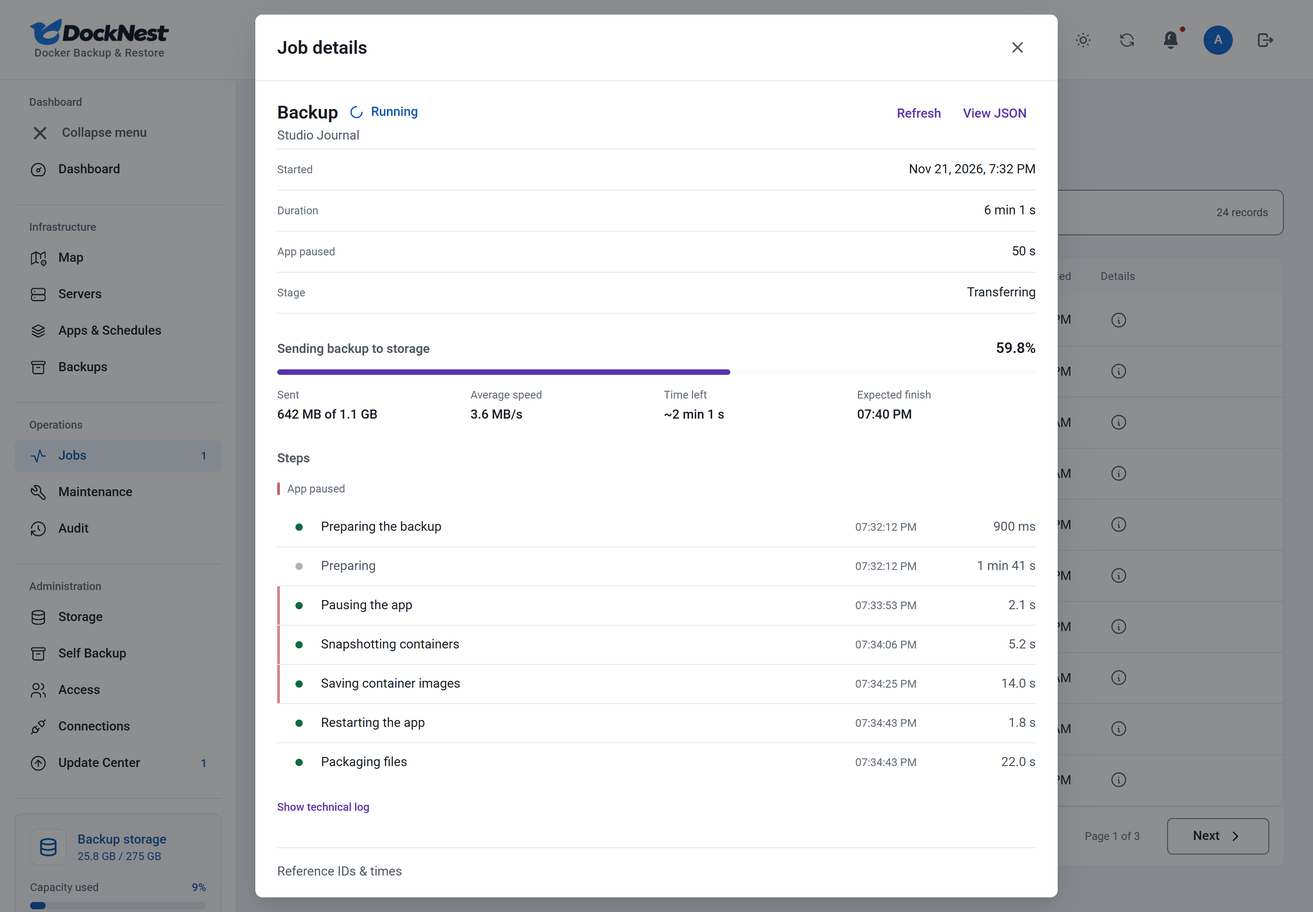
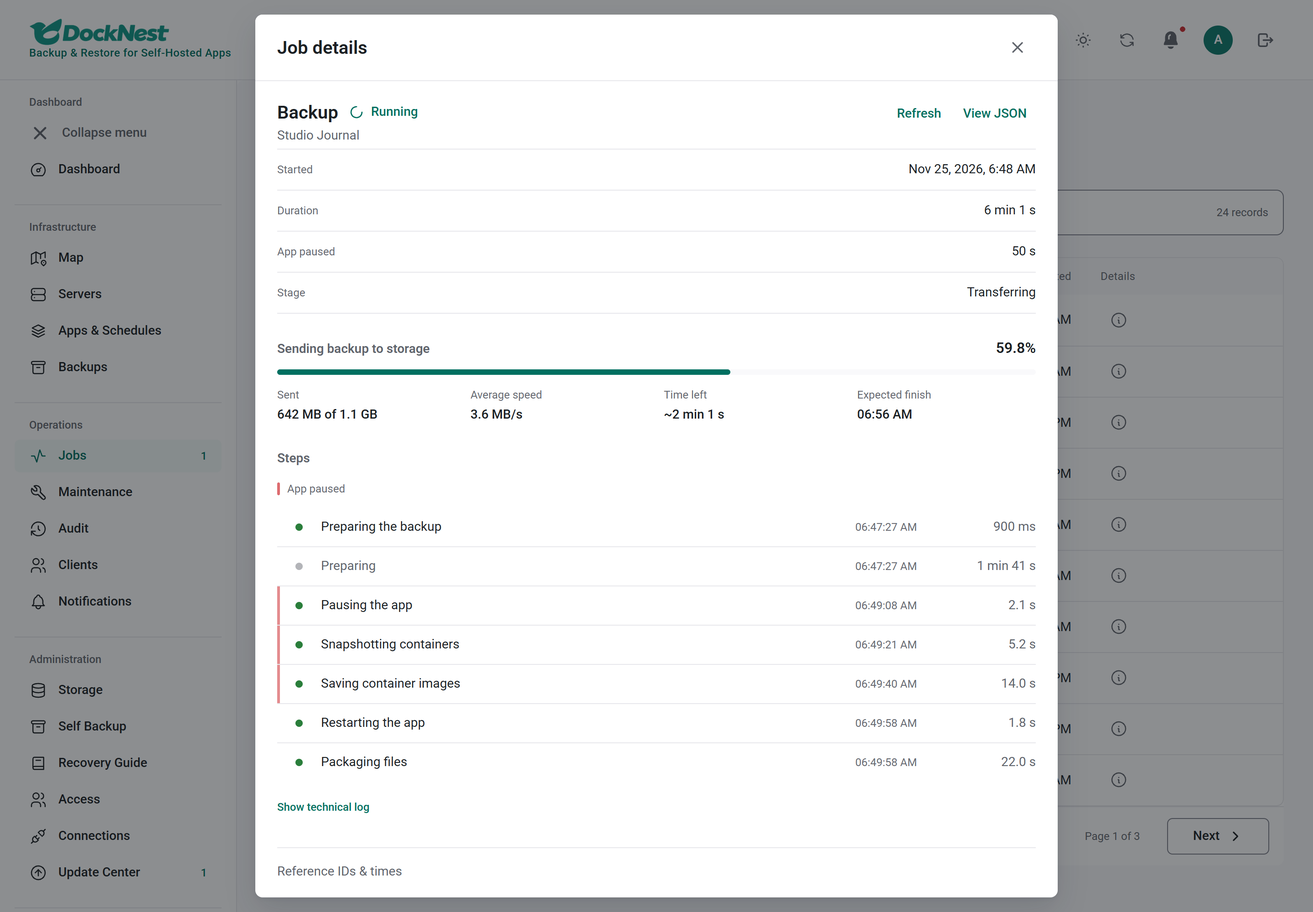
chore: prepare 3.0.0 (#300)
* chore: prepare 3.0.0 (version, changelog, release notes, README, screenshots)

* docs: regenerate the five 3.0.0 screenshots in Teal

diff --git a/scripts/readme-screenshots.js b/scripts/readme-screenshots.js
@@ -33,13 +33,14 @@ const selfBackup={active:null,lastAttempt:{status:'completed'},destination:{name
  latest:{finishedAt:time(5),size:3.4*1024**2,release:'3.0.0',checksum:'9f2c'.repeat(16),storage:{mode:'sftp',name:'Backup vault'}},
  settings:{enabled:true,schedule:'0 3 * * *',timezone:'UTC',hasPassphrase:true,nextRun:new Date(now+19*3600000).toISOString()}};
 const meta={version:'v2.4.0',publishedAt:iso,releaseUrl:'https://github.com/DahanItamar/DockNest/releases/latest',highlights:{security:false,features:2,improvements:4},highlightsVerified:true,compatibility:{minimumMet:true,updatesDatabase:'yes',fromSchema:5,toSchema:5},downtime:{seconds:240,basis:'last-run'},pauses:['Backups and restores'],notesMarkdown:'# Release notes\n\n## New features\n- Problem reports without personal data.\n- Clearer failure explanations.\n\n## Improvements\n- Faster job list.\n',notesSource:'verified'};
-async function open({width=1440,height=1000,scale=2,theme='light',signedIn=true}={}){
+async function open({width=1440,height=1000,scale=2,theme='light',signedIn=true,extra=null,pageState=state}={}){
  const context=await browser.newContext({viewport:{width,height},deviceScaleFactor:scale,reducedMotion:'reduce',colorScheme:theme});
  await context.addInitScript(t=>{try{localStorage.setItem('docknest-theme',t)}catch{}},theme);
  await context.route('**/api/**',route=>{
   const path=new URL(route.request().url()).pathname;
-  const json=path==='/api/auth/status'&&!signedIn?{authenticated:false,setupRequired:false,csrfToken:'',serverTime:now}:path==='/api/self-backup'?selfBackup:path==='/api/auth/status'?{authenticated:true,setupRequired:false,csrfToken:'demo-fixture',user:{id:'demo-admin',name:'Administrator',role:'admin'},serverTime:now,idleExpiresAt:now+1800000,absoluteExpiresAt:now+28800000}
-  :path==='/api/state'?{...state,update:{available:'v2.4.0'}}:path==='/api/storage-targets'?storageTargets:path==='/api/alerts'?alerts:path==='/api/updates'?updates:path==='/api/version'?{version:'2.3.0',schemaVersion:5}
+  const over=extra?extra(path):undefined;
+  const json=over!==undefined?over:path==='/api/auth/status'&&!signedIn?{authenticated:false,setupRequired:false,csrfToken:'',serverTime:now}:path==='/api/self-backup'?selfBackup:path==='/api/auth/status'?{authenticated:true,setupRequired:false,csrfToken:'demo-fixture',user:{id:'demo-admin',name:'Administrator',role:'admin'},serverTime:now,idleExpiresAt:now+1800000,absoluteExpiresAt:now+28800000}
+  :path==='/api/state'?{...pageState,update:{available:'v2.4.0'}}:path==='/api/storage-targets'?storageTargets:path==='/api/alerts'?alerts:path==='/api/updates'?updates:path==='/api/version'?{version:'2.3.0',schemaVersion:5}
   :path.startsWith('/api/updates/releases/')?meta:path==='/api/updates/history'?{items:[{id:'r1',version:'v2.3.0',at:time(200),outcome:'succeeded',source:'in-app'},{id:null,version:'v2.2.0',at:time(900),outcome:'succeeded',source:'cli'}],next:null}
   :path==='/api/updates/progress'?{active:false,phase:null,to:null,state:null,stale:false,updatedAt:null,events:[]}:path==='/api/updates/whats-new'?{show:false}:{};
   return route.fulfill({json});
@@ -84,5 +85,20 @@ try{
  // Sign-in page with a few typed characters (never a real password) so the dots show.
  ({context,page}=await open({signedIn:false}));await page.locator('input[name=password]').pressSequentially('0000000000',{delay:20});await page.waitForTimeout(600);await settle(page);await shot(page,'login.png');await context.close();
  ({context,page}=await open({width:402,height:874,scale:2}));await settle(page);await shot(page,'dashboard-mobile.png');await context.close();
+
+ // TrueNAS SCALE server on the Map and a Podman rootless app on Apps (1280x800, 1x, like the other 3.0.0 views).
+ const truenas={id:'demo-nas-1',name:'Storage NAS',note:'',host:'192.0.2.40',username:'admin',port:22,hostKey:'12'.repeat(32),status:'connected',capabilities:{nas:{kind:'truenas',version:'25.04.2'},helperRuntime:'container',stagingBase:'/mnt/tank/docknest',sshIdentity:'sudo',freeBytes:1.4e12,dockerVersion:'27.3.1',engines:[{engine:'docker',rootless:false,version:'27.3.1',cgroupDelegated:true}]}};
+ const nasChecks=[{id:'nas-version',status:'ok',message:'truenas 25.04.2'},{id:'identity',status:'ok',message:'Connected as admin with passwordless sudo.'},{id:'runtime',status:'ok',message:'The helper runtime image is loaded.'},{id:'staging',status:'ok',message:'/mnt/tank/docknest is on persistent storage.',freeBytes:1.4e12},{id:'docker',status:'ok',message:'Docker 27.3.1'}];
+ const nasSite={id:'demo-nas-site',name:'Photo Library',serverId:truenas.id,config:{containers:['photos','photos-db'],domains:[]}};
+ const nasState={...state,servers:[truenas],sites:[nasSite],policies:[{siteId:nasSite.id,enabled:true,schedule:'0 2 * * *',timezone:'UTC',retention:7}],backups:[],jobs:[]};
+ ({context,page}=await open({width:1280,height:800,scale:1,pageState:nasState,extra:p=>p==='/api/servers/'+truenas.id+'/nas'?{nas:truenas.capabilities.nas,identity:'sudo',helperRuntime:'container',stagingBase:truenas.capabilities.stagingBase,ready:true,checks:nasChecks}:undefined}));
+ await go(page,'Map');await page.getByRole('heading',{level:1,name:'Map'}).waitFor();
+ await page.locator('[data-node="server:'+truenas.id+'"]').click();await page.getByText('Helper runtime: Container (no Python on host)').waitFor();await settle(page);await shot(page,'nas-server.png');await context.close();
+ const rootless={engine:'podman',rootless:true,user:'svc',uid:1002};
+ const podSites=[{id:'demo-pod-1',name:'Demo Shop',serverId:servers[0].id,config:{containers:['shop-web'],domains:[]}},{id:'demo-pod-2',name:'Team Portal',serverId:servers[0].id,config:{containers:['portal-app'],runtime:rootless,domains:[]}}];
+ const podServer={...servers[0],capabilities:{...servers[0].capabilities,engines:[{engine:'docker',rootless:false,version:'28.0.1',cgroupDelegated:true},{...rootless,version:'5.2.1',cgroupDelegated:true}]}};
+ const podState={...state,servers:[podServer],sites:podSites,policies:podSites.map(s=>({siteId:s.id,enabled:true,schedule:'0 2 * * *',timezone:'UTC',retention:7})),backups:[],jobs:[]};
+ ({context,page}=await open({width:1280,height:800,scale:1,pageState:podState}));
+ await go(page,'Apps & Schedules');await page.locator('.site-card',{hasText:'Team Portal'}).getByText('Podman rootless, user svc').waitFor();await settle(page);await shot(page,'podman-app.png');await context.close();
  console.log('Documentation screenshots captured with synthetic data only.');
 }finally{await browser.close();}

diff --git a/CHANGELOG.md b/CHANGELOG.md
@@ -2,114 +2,54 @@
 
 All notable changes to DockNest are documented here. The format follows [Keep a Changelog](https://keepachangelog.com/en/1.1.0/), and DockNest uses [Semantic Versioning](https://semver.org/spec/v2.0.0.html). [docs/upgrading.md](docs/upgrading.md) describes what stays stable within a major version and the deprecation policy. Detailed notes for each release live in [docs/releases](docs/releases).
 
-## [Unreleased]
+## [3.0.0] - Unreleased
 
-Draft for 3.0.0, not released yet. Upgrading: [docs/upgrading.md](docs/upgrading.md#upgrading-to-300).
+Upgrading from 2.16.x: [docs/upgrading.md](docs/upgrading.md#upgrading-to-300). Backups of Podman and rootless apps use backup format 3, which 2.16 cannot restore.
 
-### Fixed
+### New
 
-- Cloud drives: the Google Drive, OneDrive and Dropbox sign-in link now appears, drives can connect over HTTPS, the connected account is shown masked, and a certificate problem is reported as such instead of "could not be reached".
-- OneDrive: the list of drives after sign-in is no longer empty, so OneDrive can be connected from the dashboard. After a revoked sign-in, the first test now says OneDrive needs you to sign in again.
-- Cloud drives: the sign-in address from Microsoft and Dropbox (`localhost:53682`) is accepted, personal Microsoft account codes are accepted, Google Drive sign-in asks only for access to files DockNest creates, and the account name shows after Reconnect.
-- Cloud drives: the account name now shows on every drive (and fills in for existing ones after a Test). Reconnecting a Google Drive with a different Google app asks you to confirm first, because earlier backups would no longer be visible; a backup that Google no longer shows is reported as not visible, not as damaged.
-- Google Drive: the root folder is remembered, so tests and backups make fewer calls. A slow test no longer fails the page: it shows "Still checking" and finishes in the background. When Google limits the shared sign-in app, DockNest says so and recommends your own app ID.
+- Recovery time: how long each app took to come back in its newest passed restore test, on the dashboard, the Map and Restore tests. Existing tests already count.
+- Client reports: a Clients page; group apps per client and make a monthly PDF of backups, restore tests, recovery time, certificate, hardening grade and domain checks, downloaded or emailed to up to 3 people. Never shows server addresses, logins or paths. See [client reports](docs/client-reports.md).
+- Cloud drives as backup storage: Google Drive, OneDrive, Dropbox, WebDAV, SMB shares and a mounted local folder, with Reconnect and an alert when a sign-in expires. See [cloud drives](docs/cloud-drives.md).
+- NAS servers: TrueNAS SCALE, as root or a non-root SSH user with passwordless sudo, with a sealed helper container when the NAS has no Python. Unraid and Synology are early access under Settings (off by default); until then they connect as normal Linux servers with Docker. See [NAS servers](docs/nas-servers.md).
+- Podman and rootless Docker: servers list their engines, Discover groups apps by engine, and such apps can be backed up, restored and restore-tested in the same kind of engine. Not yet: systemd-managed (quadlet) apps, native databases, several containers in one restore, incremental backups and moves between engines.
+- Notification center: a bell and a Notifications page with folders, filters, Archive and toasts for new problems.
+- New look: slate neutrals and a teal accent, with an accent colour choice (Teal, Blue, Indigo, Orange, Pink) under Settings > Appearance. Apps (was Sites) and Self Backup are the new names; nothing to change.
+- Recovery Guide: numbered steps and exact commands to bring every app back on a new server, as a PDF (Hebrew included), with expected recovery time per app. A login-free copy is saved next to the recovery kit after every Self Backup.
+- Recovery kit: checked after every Self Backup and on demand (alert on failure); optional split so K of N trusted people can open it together.
+- Keys safe: finds app encryption keys (Laravel, n8n, Rails, authentik, Paperless-ngx, Outline, Gitea, Nextcloud, Vaultwarden and others) and checks they are inside the last backup. Key values never leave the server.
+- Backup coverage and linked apps: every container and volume on a server and whether an app backs it up, plus which apps depend on each other.
+- Domain checks: follow each domain through DNS, proxy (nginx, Nginx Proxy Manager, Caddy, Traefik), app and certificate; shown on the Map. Domains move with their app.
+- Restore check also lists cron jobs, timers, networks, volumes, secrets and certificates a restore on a new server would miss. See [restore check](docs/restore-check.md).
+- Redis, Valkey and MongoDB (6.0 to 8.0) apps are detected and backed up; online dumps for PostgreSQL, MySQL, MariaDB, Redis and Valkey (opt-in).
+- Portainer and Dockge stacks are found when adding an app; apps started with plain `docker run` get a Compose preview and a readable Compose file inside the backup.
+- Alerts: "Backup missed", "Configuration changed", "Client report failed" and a cloud-drive Reconnect alert.
+- Append-only SFTP storage is detected, and SFTP capacity fills in automatically.
+- Restore tests can read the backup copy on your second storage.
 
-### Added
+### Improved
 
-- New look: slate neutrals and a teal accent. Settings > Appearance has an accent colour choice (Teal by default, Blue, Indigo, Orange or Pink), saved per account in this browser. The logo, buttons, links and charts follow it. Switching accent or light/dark fades smoothly (about 0.2 s, colours only, instant with reduced motion). The dashboard tiles are solid accent cards. Status colours stay green, amber and red, and text on buttons meets contrast in every accent and in light and dark.
-- Unraid and Synology support are hidden until they can be tested on real hardware: such a server connects as a normal Linux server with Docker, with one plain info line. 3.0.0 NAS support is TrueNAS SCALE. Early-access "Unraid support" and "Synology support" switches (off by default, with a Beta tag) are under Settings; problem reports from those servers carry a "unraid" or "synology" tag.
-
-**Recovery**
-- Recovery time: DockNest now measures how long each app takes to come back, from its newest passed restore test (get the backup, restore data, start and check). Existing restore tests already count, so there is a number on day one. It shows under the last test on the dashboard ("Back in about 12 min, proven 3 days ago"), on the app panel in the Map with its three parts, and at the top of Restore tests with the recent tests. An old test is greyed and says "not recent"; after the backups grow a note says the number may be low.
-- Redis and Valkey: apps using them are detected and shown in the Databases list with what they keep (saved to disk or cache only). A cache-only server is no longer an error, and with online dumps on, a server that saves to disk keeps running while a consistent snapshot is taken and restored.
-- Recovery Guide: plain, numbered steps to bring every app back on a new server, made from what DockNest knows now, with the exact commands for each app. Download it as a PDF (Hebrew included); addresses and storage logins are added only if you choose, and logins need you to confirm again. A copy without any login is saved next to the recovery kit after every Self Backup, and an optional alert tells you when the guide is out of date.
-- Client reports: a Clients page in the menu. Group apps into clients and make a monthly PDF per client, on demand or emailed on day 1 to up to 3 recipients through your email Connection. It shows backups, restore tests, recovery time, certificate, hardening grade and domain checks, and never a server address, login or path. A failed send raises the new alert "Client report failed". See [client reports](docs/client-reports.md).
-- After every Self Backup, and when you ask, DockNest opens the newest recovery kit with the passphrase it keeps and checks that it is complete and holds this DockNest's key. If the check fails, you get an alert.
-- Optional emergency kit split: K of N trusted people can open your kit together with their 33-word parts, using an offline tool, while fewer of them learn nothing. Off by default; one passphrase stays the default. Every split alerts all your channels. Splitting again, or going back to one passphrase, asks for a new recovery passphrase, so earlier holders cannot open new kits.
-- Keys safe: DockNest finds the encryption keys of apps such as Laravel, n8n, Rails, authentik, Paperless-ngx, Outline, Gitea, Nextcloud and Vaultwarden, and checks that each key is inside the last backup. A key kept in a file the app does not back up is shown as missing, with the file. Key values never leave the server.
-- Restore tests check that the restored app has the same keys as the backup.
-- Check readiness now also lists what a restore on a new server would miss: cron jobs and systemd timers that use the app's folders or containers, Docker networks and volumes the app does not create itself, Compose secrets, configs and environment files outside its folder, and its HTTPS certificates. Commands and values from these files are never shown. You can ignore a finding or keep a note with it. See [restore check](docs/restore-check.md).
-
-**Apps and servers**
-- Podman and rootless Docker groundwork: the server helper now has one place that decides how DockNest talks to the container engine, with strict checks on users, ID ranges and systemd units. Nothing changes for existing apps, which keep using rootful Docker; Podman and rootless apps follow in later 3.0.0 changes.
-- NAS servers (backend): connect a Unraid or TrueNAS system with a non-root SSH user that has passwordless sudo, or with root. Other servers still need root. The helper works in the NAS's persistent working folder and reads free space there, not from memory storage. Connect answers say which identity is used and the one fix when sudo asks for a password. Release note: Connecting a NAS no longer needs root SSH.
-- Podman and rootless Docker discovery: Test connection now lists the container engines a server runs (Docker, Podman, and rootless Docker or Podman for users with their own container storage), and Discover tags each container with its engine. An app can be saved with its engine only when the server reported it. Backups and restores of such apps are refused with a plain message until they arrive in a later 3.0.0 change; existing apps are unchanged.
-- Podman and rootless Docker backups: an app that runs in Podman or rootless Docker can be backed up and restored into the same kind of engine, as a new isolated copy. The backup records the container engine and the user ID ranges, and a restore for another user translates every file owner, refusing the whole restore if one cannot be mapped. A backup of such an app cannot be opened by older releases. Not yet supported: apps managed by systemd units (quadlets), native database engines, several containers in one restore, incremental backups, restore tests and moves.
-- Restore tests for Podman and rootless Docker apps: the test runs in the same kind of engine, as one isolated container with the usual memory and CPU limits, and only on a server where those limits can be set for that user. The copy and its data folder are always removed, also by the safety reaper and when a restore fails. Not yet: internet tests, apps with several containers, the internal web check, and a custom seccomp profile on rootless.
-- Podman and rootless Docker in the app: Discover & add an app groups what it finds by engine, says "One app, one engine" when a Compose project is split across engines, and keeps the engine of the app you save. Apps show an Engine row, restore tests explain in one sentence why a server cannot test them, Self-heal says it is not available for them yet, and a server lists the engines it runs (including a server with Podman and no Docker).
-- Podman and rootless Docker moves and cleanup: the move check now reads the rules for these apps (Docker and Podman cannot be moved into each other, the target must run the engine, a rootless user cannot use ports below the system limit, a missing linger setting is flagged, file owners are translated) and still blocks the move itself for now. Server cleanup lists DockNest's restore copies in these engines as kept and offers the data folder of a failed rootless restore for removal.
-- Podman and rootless Docker image copies: backups and restores of these apps move image archives through the engine's own input and output, so a rootless user's engine never needs access to DockNest's private folders.
-- NAS apps (backend): on Unraid, Synology and TrueNAS, scanning a server now tells which apps the NAS itself manages (Unraid templates, Container Manager projects, TrueNAS apps), read-only. An Unraid app's template is saved with its backup and can be put back, never over a different file. TrueNAS before 24.10 is refused with a clear message. Release note: DockNest recognises apps managed by Unraid, Synology and TrueNAS.
-- Unraid restore (backend): after an app is restored, its saved template is put back so the Unraid Docker page keeps managing it, without ever replacing a different file. Compose Manager projects are listed by name. TrueNAS version files in the common formats are recognised. Release note: Restoring an Unraid app also restores its Docker template.
-- NAS helper runtime (backend): a NAS with no usable Python can now run DockNest's helper in a small container image that ships inside the DockNest image. DockNest checks its checksum, loads it over SSH, and runs it only by its pinned ID with no network and only the folders the call needs. Release note: NAS systems without Python no longer need Python installed to connect.
-- NAS helper runtime hardening: folders are checked where they point and never follow a link into a system folder, the image is built in a job with no publish rights and verified again before release, and its package versions are pinned. Release note: NAS helper runtime checks are stricter.
-- NAS backups, restores and restore tests now work for a sudo user: packages are moved through the helper under sudo instead of SFTP, and the root-only staging folders are not opened up. Release note: Backups, restores and restore tests work on a NAS with a sudo user.
-- NAS screens: the server card and Map panel show the NAS name and a readiness list (helper runtime, staging folder, Docker, key warning with its fix). Discover groups apps by the manager the NAS uses, with the Unraid WebUI shown as text. The connect wizard explains Unraid, Synology and TrueNAS, accepts a passwordless-sudo user and, without Python, a pasted host key fingerprint. Release note: Unraid, Synology and TrueNAS systems get their own screens and setup help.
-- Recovery Guide: a new column, Expected time to recover, shows how long each app took in its newest passed restore test. Release note: The Recovery Guide now says how long each app should take to restore.
-- Backup coverage on the Apps page and the Map: every container and volume on a server, and whether an app backs it up, its first backup is pending, or nothing does. Add an app for what is missing in one click, or skip what you leave out on purpose, with a note. It reads Docker only when you open it or press Scan again.
-- Linked apps: scanning a server now finds which apps depend on each other (a shared database, network or volume, or a container linked to another app's), and which containers they use that no app backs up. Read-only; nothing is changed.
-- Domain checks: DockNest follows each domain of your apps through DNS, the proxy (nginx, Nginx Proxy Manager, Caddy or Traefik), the app and its certificate, and says which step is broken and why. Checks run when you ask and after scans, readiness checks and backups, never on a timer. See [domains](docs/domains.md).
-- A move preview lists every domain that stops working until DNS points to the new server, and separately the domains another server's proxy sends to the app.
-- Domains on the Map: a Domains column shows where each domain really points, with the broken step and what to do about it. Each app panel lists its domains. Checks run only when you ask.
-- Adding an app started with plain `docker run` shows how DockNest will recreate it, as a read-only Compose preview, and suggests containers that share a network as one app.
-- A backup of an app started with plain `docker run` now also holds a readable Compose file and env files that recreate it with the same settings, so you can bring it back without DockNest.
-- Back up MongoDB apps with a verified clean stop (MongoDB 6.0, 7.0 and 8.0, standalone servers).
-- Adding an app finds stacks that Portainer or Dockge manage, fills in their Compose file from the manager's stacks folder and shows the manager on the app card. DockNest only reads it and never changes Portainer or Dockge.
-- NAS support, first part (no screens yet): DockNest recognizes Unraid, Synology and TrueNAS servers, can connect as a non-root user with passwordless sudo on them, and can run its helper in a sealed container when the NAS has no Python. Servers that are not NAS systems are unchanged. See [NAS servers](docs/nas-servers.md).
-
-**Storage and backups**
-- Cloud drives as backup storage: connect Google Drive, OneDrive, Dropbox, WebDAV (Nextcloud, ownCloud) and SMB shares through a bundled, checksum-pinned rclone. Sign in by pasting the address your browser ends on, or a token from rclone on your own computer; tokens are sealed with the master key and never shown. When a drive asks you to sign in again, backups to it stop with a plain message, one alert is sent, and Reconnect replaces only the token. Not append-only; deleted files go to the provider's trash. See [cloud drives](docs/cloud-drives.md).
-- Online database dumps (opt-in per app, a switch under Advanced backup settings; each database says whether it can stay running): PostgreSQL, MySQL and MariaDB keep running while a consistent dump is taken, and a restore loads it into a fresh database. Anything a dump cannot cover safely keeps the stopped copy, with the reason. See [online dumps](docs/online-dumps.md).
-- Append-only SFTP storage: DockNest detects an SFTP account that refuses deletes and overwrites, keeps adding backups there, and leaves old ones for the storage server to expire. While the server enforces it, ransomware that reaches DockNest cannot delete or overwrite stored backups. See [storage backends](docs/storage-backends.md#append-only-sftp-since-300).
-- Adding an SFTP storage destination fills the Capacity field with the size the server reports (editable, never blocks adding). See [storage backends](docs/storage-backends.md).
-
-**Sign-in**
-- Sign-in: password dots and two-factor code digits animate as you type; the focus border is gone. Off under reduced motion.
-
-**Alerts**
-- Notification center: a bell with an unread count, the newest notifications and your running jobs, and a Notifications page under Operations with folders (All, Needs action, Backups & restores, Storage, System, Archived), filters and one-click Mark read, Archive and Open. It lists the same events your alert channels get, plus restores, restore tests that passed and recovery times that went old, for every administrator, kept for 90 days. A repeat of the same event counts up instead of piling up. Short messages now appear as toasts: errors stay until you close them, success clears itself after 5 seconds.
-- Missed backup alert: when a scheduled backup could not start on time (DockNest was down, or the app stayed busy), your alert lines for failed backups get one "Backup missed" message. The run still happens as soon as it can. See [alerts](docs/alerts.md#missed-scheduled-backups).
-- A new alert, "Configuration changed", tells you once when an app's Compose or env files change outside Safe Edit. Administrators can mark the current files as known-good.
-- Keys safe on screen: a padlock on each app in the Map and a Keys line on each app card (found in the last backup, missing, or changed), a Keys section in the app's Map panel with each key's name, place and short fingerprint (never the key), "Add file" for a key in a file the app does not back up, and "Mark as known-good" for administrators after a sign-in check. Self Backup shows a Recovery kit check card with its last result, and a move review lists owner, file-mode and target-folder findings as separate notes.
-- The recovery kit check on Self Backup says which kit it opened ("Kit from 18 Nov 03:10") whenever it found one.
-- Before a move, DockNest checks the new server for owner and permission problems: remapped Docker user IDs, files whose setuid, ACL or extended attributes the new file system would drop, and folders on read-only, noexec, nosuid or root-squashed mounts. A check that cannot run stops the move with a plain message instead of passing quietly. What the checks find about owners and permissions is a warning: you tick "I checked these" before the move can start.
-
-### Changed
-- Sign-in hardening: a new system password (first setup, or when you change it) must be 12 to 128 characters instead of 4 to 16. Existing passwords keep working; nobody is locked out. After 20 failed sign-ins from anyone within 15 minutes, sign-in pauses for a short, growing time (30 seconds up to 15 minutes) with a plain message, then continues by itself. Release note: New system passwords need 12 to 128 characters, and repeated failed sign-ins now pause sign-in briefly.
-
-- Secondary actions everywhere are quiet text links; each screen and dialog has one clear main button.
-- Map: lines curve smoothly between connection points, like a workflow canvas.
-- The app and server details panels on the Map have a new layout: a status line under the name, one label and value list, thin lines between sections, and Self-heal, Edit history and Add an app found here together under Tools. Move to and Edit are plain underlined links; Open site stays the one filled button.
-- Secondary actions in the Map panels, Keys, Recovery Guide and domain checks are plain underlined links instead of outlined buttons; main actions stay filled buttons.
-- A new look across the dashboard: consistent dialogs, tabs, notices, step-by-step flows, fields and buttons. Sign-in animates each password dot and 2FA digit as you type, with no focus border on those inputs. Off under reduced motion.
-- Cleaner lists: open details from the row, and find the extra actions in one menu on the Map, Apps, Servers, Storage and Backups.
-- DockNest's own backup is now called **Self Backup** in the menu, page, alerts and docs. Nothing changes in how it works, and your existing settings and backups are untouched.
-- Sites are now called Apps, because DockNest backs up any Docker app or stack, not only websites. The menu entry is now Apps & schedules. There is nothing to do: your data, links and bookmarks keep working.
-- Adding an app hides containers that are already backed up on that server, and DockNest refuses a duplicate. Moving an app is refused too when an app on the new server already backs up one of its containers.
-- A move no longer stops when an app's configuration files live outside the app folders, such as `/etc/cron.d`. It leaves them out, names them in the preview to put back by hand, and the backup's restore guide says where each one goes. A move still never writes into `/etc`.
+- One main button per screen, quiet text links for secondary actions, one actions menu per list row, consistent dialogs, tabs and fields.
+- The Map: curved lines, a domain tree, drag anywhere with positions remembered, Fit to screen keeps names readable, new details panels, a Keys padlock, and the storage an app really uses.
+- Adding an app hides containers that are already backed up and refuses duplicates.
+- A move no longer stops over configuration files outside the app folders; it names them to put back by hand. It also checks for owner and permission problems on the new server and lists domains that need new DNS.
+- A backup stopped by a changing folder names that folder.
+- Moving a `docker run` app keeps its hostname, limits, DNS, log settings and other options.
+- Google Drive makes fewer calls, and a slow test shows "Still checking" instead of failing the page.
 
 ### Fixed
 
-- A Podman or rootless app whose user has no container runtime folder (linger off, user logged out) now gets a plain message with the fix, instead of a bare engine error.
-- A server where Docker is installed but not running no longer fails a scan: the app list still shows the other engines, the scan names the stopped Docker engine, and the readiness check says "Docker is installed but not running". The TrueNAS-before-24.10 refusal no longer repeats its last sentence. Release note: A stopped Docker is reported plainly instead of failing the scan.
-- The Recovery Guide shows the whole install command instead of cutting it off.
-- The Map no longer leaves "Change cancelled" under the canvas; status messages disappear after a few seconds.
-- The move preview dialog no longer has an empty gap above its buttons.
-- Fit to screen on the Map keeps names readable and lets you pan a big map instead of shrinking it.
-- The Map shows the backup storage an app really uses: the app's own main destination, not always the default one.
-- The Recovery Guide says whether a restore test read the main backup or the off-site copy.
-- Moving an app started with plain `docker run` now keeps its hostname, TTY, memory, CPU and process limits, ulimits, log settings, DNS, shm size, sysctls, extra groups, `-P` and stop timeout. Settings DockNest cannot recreate (such as devices or GPUs) are named in the move preview.
-- A backup that stops because a folder changed while the app was paused now names that folder (for example a host timer that writes into it), instead of a general message.
-- On the Map, nodes you drag now go anywhere, also further left and up, instead of stopping at an invisible edge. Where you put them is kept the next time you open the Map; Tidy up arranges everything again.
-- Safe Edit: an invalid field keeps its red border when you hover it.
-- The Map shows `example.com` and `www.example.com` as one domain, with the www name inside it and one status for both.
-- On the Map, a subdomain hangs under its domain and only the domain connects to the server (subdomain, domain, server). A subdomain that runs on another server connects to its own server and says "part of" its domain.
-- Lines from domains end in one input dot on the server, like the output dot on its right, instead of an arrowhead each.
-- The Map opens whole and centred instead of at a cut-off corner.
-- The "+" next to an app on the Map opens the Add to the map panel instead of doing nothing.
-- A domain moves with its app on the Map: drag its dot onto another server to start the app's move, see it dashed at the new server while the move runs, and find it there afterwards. A domain with no app, or used by several apps, says so and moves nothing.
-- A static website that nginx serves from a folder is shown as a note with an "Add as app" link, not as a failed proxy.
-- The Recovery Guide PDF is denser (no half-empty pages), carries the DockNest mark and a credit with working links to GitHub and trydocknest.com.
+- Cloud drives: sign-in links appear, OneDrive lists its drives, the Microsoft and Dropbox `localhost:53682` address and personal Microsoft accounts are accepted, the account name shows (masked), and certificate problems are reported as such.
+- Reconnecting Google Drive with a different Google app asks first; a backup Google no longer shows is reported as not visible, not damaged.
+- A server where Docker is installed but stopped no longer fails a scan; Podman users without a runtime folder get a plain fix.
+- The Recovery Guide shows the whole install command and is denser; the Map no longer leaves stale messages; the move preview has no empty gap.
+- A static site that nginx serves from a folder shows an "Add as app" link instead of a failed proxy.
+
+### Security
+
+- A new system password must be 12 to 128 characters (existing passwords keep working). After 20 failed sign-ins from anyone within 15 minutes, sign-in pauses briefly.
+- NAS connections no longer need root SSH; the helper runtime image is pinned, checksum-verified and run with no network. Cloud-drive tools are checksum-pinned.
+- Google Drive sign-in asks only for access to files DockNest creates.
 
 ## [2.16.4] - 2026-11-14
 
@@ -677,7 +617,7 @@ Pre-release of 2.1.0, tagged `v2.1.0-rc.1`. The GitHub release for it has been r
 
 See [docs/releases/2026-10-17-v2.0.md](docs/releases/2026-10-17-v2.0.md) for the full notes.
 
-[Unreleased]: https://github.com/DahanItamar/DockNest/compare/v2.1.0...HEAD
+[3.0.0]: https://github.com/DahanItamar/DockNest/compare/v2.16.4...HEAD
 [2.1.0]: https://github.com/DahanItamar/DockNest/compare/v2.0.0...v2.1.0
 [2.1.0-rc.1]: https://github.com/DahanItamar/DockNest/compare/v2.0.0...v2.1.0-rc.1
 [2.0.0]: https://github.com/DahanItamar/DockNest/releases/tag/v2.0.0

diff --git a/README.md b/README.md
@@ -26,7 +26,7 @@ DockNest is a self-hosted web app. It connects to your Linux servers over SSH, b
 - Discovers the Docker projects and static nginx sites on each server you connect.
 - Backs up each app on its own schedule to encrypted SFTP or S3-compatible storage. Connect storage starts with a provider (own server or NAS, Hetzner, rsync.net, MinIO, Amazon S3, Cloudflare R2, Backblaze B2, Wasabi or another) and fills in its defaults.
 - Verifies recovery points and restores them to a separate copy. The live app is not overwritten.
-- New in 3.0.0: a notification center; measured recovery time per app; monthly client reports as a PDF, downloaded or emailed; cloud drives as storage (Google Drive, OneDrive, Dropbox, WebDAV, SMB, a local folder); NAS servers (TrueNAS SCALE; Unraid and Synology as early access in Settings); Podman and rootless Docker apps; a new look with a choice of accent colour (Settings > Appearance), with a smooth fade when you change it or switch light and dark.
+- New in 3.0.0: a notification center; measured recovery time per app; monthly client reports as a PDF, downloaded or emailed; cloud drives as storage (Google Drive, OneDrive, Dropbox, WebDAV, SMB, a local folder); NAS servers (TrueNAS SCALE; Unraid and Synology as early access in Settings); Podman and rootless Docker apps; security hardening (12 to 128 character system passwords, sign-in pause after repeated failures, checksum-pinned helper images); a new look with a choice of accent colour (Settings > Appearance), with a smooth fade when you change it or switch light and dark.
 - Shows live progress, the steps of each job and the reason when one fails.
 
 > [!NOTE]
@@ -223,9 +223,10 @@ scripts/upgrade.sh --dry-run    # show the plan only
 
 With the host updater installed, a command-line upgrade that cannot register the new version itself (for example a checkout not owned by root) ends by printing the `sudo scripts/install-updater.sh --repair` command to run.
 
-Upgrading from 2.16.x to 3.0.0 (the 3.0.0 development line) adds only compatible database tables (migration 27), so rolling back to 2.16.x works without restoring a snapshot; see [Upgrading to 3.0.0](docs/upgrading.md#upgrading-to-300). Worth knowing before you update:
+Upgrading from 2.16.x to 3.0.0 adds only compatible database tables (migrations 19 to 27), so rolling back to 2.16.x works without restoring a snapshot; see [Upgrading to 3.0.0](docs/upgrading.md#upgrading-to-300). Worth knowing before you update:
 
-- Backups of Podman and rootless apps use backup format 3 (`formatVersion: 3`); 2.16 and older cannot restore them. Docker apps keep the older format.
+- 3.0.0 backups of Podman and rootless apps use backup format 3 (`formatVersion: 3`); 2.16 and older cannot read or restore them. Docker apps keep the older format.
+- New system passwords must be 12 to 128 characters; existing passwords keep working.
 - Cloud drives use a bundled rclone that exists for `linux/amd64` only.
 - A NAS (TrueNAS; Unraid and Synology when enabled) connects as root, or as a non-root SSH user with passwordless sudo.
 - Moving an app between container engines is not supported yet.

diff --git a/docs/releases/2026-11-24-v3.0.0.md b/docs/releases/2026-11-24-v3.0.0.md
@@ -1,7 +1,7 @@
 ---
-security: false
-features: 5
-improvements: 2
+security: true
+features: 6
+improvements: 3
 fixes: 0
 ---
 # DockNest 3.0.0
@@ -15,13 +15,19 @@ Know how long a restore takes, send clients a monthly proof page, keep backups o
 - **Cloud drives.** Keep backups on Google Drive, OneDrive, Dropbox, WebDAV, an SMB share or a mounted local folder, with Reconnect when a sign-in expires.
 - **NAS servers.** Connect TrueNAS SCALE, with root or a non-root user that has passwordless sudo. Unraid and Synology are early access: turn them on under Settings. Until then they connect as normal Linux servers with Docker.
 - **Podman and rootless Docker.** Apps on Podman or rootless Docker are found, backed up and restored. Restore tests run in the same engine on servers that can limit memory for that user. Not yet: apps managed by systemd units, native databases, several containers in one restore, incremental backups and moves.
+- **Notification center.** A bell and a Notifications page for backups, restores, storage and system events, with filters and Archive.
 
 ## Better
 
 - A new look across the dashboard, with one main button per screen.
+- Choose an accent colour under Settings > Appearance (Teal by default).
 - Keys safe, domain checks, backup coverage and linked apps help you see what a restore would miss.
+
+## Security
+
+- New system passwords must be 12 to 128 characters, and sign-in pauses after repeated failures. Existing passwords keep working.
 
 ## Before you update
 
-- Backups of Podman and rootless apps cannot be restored by DockNest 2.16 or older.
+- 3.0.0 backups of Podman and rootless apps (format 3) cannot be read or restored by DockNest 2.16 or older.
 - Cloud drives need an amd64 server. Moving an app between container engines is not supported yet.

diff --git a/docs/media/README.md b/docs/media/README.md
@@ -14,3 +14,5 @@ Generated by `npm run docs:screenshots` (`scripts/readme-screenshots.js`) agains
 | `update-center.png` | Update Center with fixture update-check, release and host updater responses (an example update, not a statement about any release). |
 
 `logo-blue.png`, `logo-purple.png` and `social-preview.png` are brand assets, not screenshots.
+
+`nas-server.png` and `podman-app.png` come from the same script (1280 x 800, synthetic TrueNAS SCALE and Podman fixtures). `recovery-time.png`, `client-report.png` and `cloud-drives.png` are the R1, C3 and D3 pictures written by `SHOTS_DIR=<dir> node scripts/clients-drives-browser.js` (real server, fake rclone, fictional data), light theme, 1280 px.
